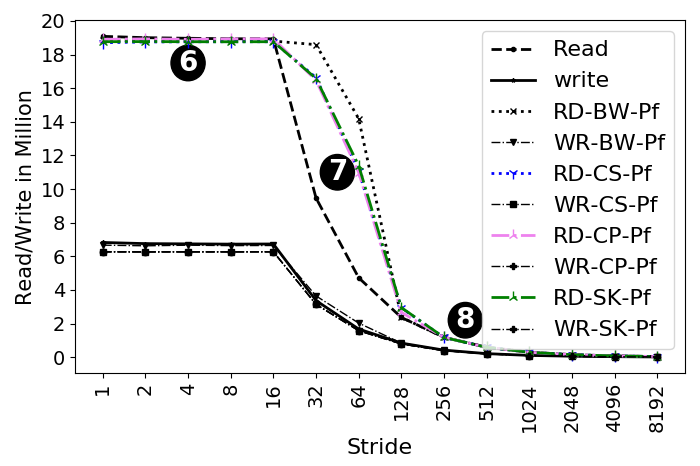
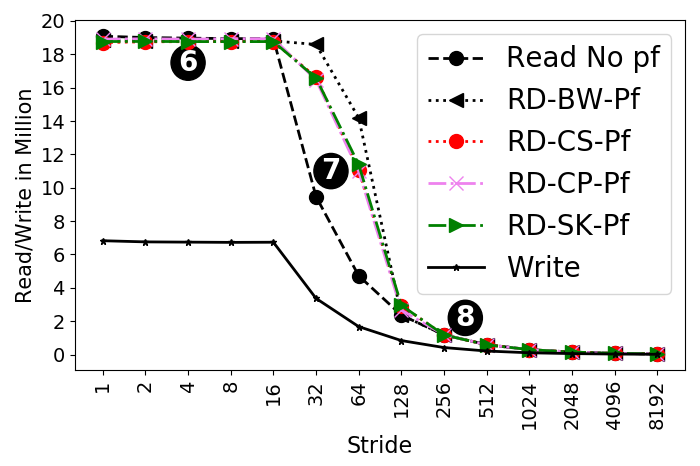
added the graphs

diff --git a/graphs/sc21/new_pref_stride_method_initialization.py b/graphs/sc21/new_pref_stride_method_initialization.py
@@ -1,0 +1,147 @@
+import random
+import matplotlib
+import matplotlib.pyplot as plt
+from matplotlib import style
+
+import numpy as np
+import matplotlib.patches as mpatches
+
+from matplotlib.patches import Ellipse
+
+#plt.rcdefaults()
+fig, ax = plt.subplots()
+
+fig.set_size_inches(7, 5)
+
+#labels = ['Manaul', 'PAPI']
+#traffic = [12.46, 18.75]
+
+#stride = ['stride-1', 'stride-2', 'stride-4', 'stride-8', 'stride-16', 'stride-32', 'stride-64', 'stride-128', 'stride-256', 'stride-512', 'stride-1024', 'stride-2048', 'stride-4096', 'stride-8192']
+stride = ['1', '2', '4', '8', '16', '32', '64', '128', '256', '512', '1024', '2048', '4096', '8192']
+
+read=[19083795,19005683,18970043,18940397,18938589,9468337,4724431,2363247,1182735,594024,296881,149252,75072,37848]
+write=[6824619,6755515,6740634,6725749,6734401,3368188,1676038,839272,420643,212602,106874,58650,31081,15670]
+
+#with prefetch
+read1=[18861923,18813995,18800278,18803630,18803353,18590975,14190254,2364840,1183868,594090,297740,149395,75338,37868]
+write1=[6665144,6625435,6662691,6637524,6645248,3644694,2029784,839811,421381,212587,106996,58520,31292,15906]
+
+readc=[18706394, 18750993, 18760631, 18766661, 18763123, 16630885, 11066714, 2930101, 1172688, 590092, 292798, 147153, 74118, 37785]
+writec=[6258120,6265611,6272502,6270325,6275745,3148710,1580119,789113,391925,199966,98858,50376,25516,14507]
+
+reads=[18765642,18772132,18764571,18759543,18764915,16576687,11395672,2952856,1175004,588251,295965,148305,74884,37756]
+writes=[6271286,6264048,6265378,6268979,6266406,3144219,1573146,789636,392824,196725,99267,50322,25902,13290]
+
+readcp=[18909461,18931537,18907056,18934899,18936431,16468747,10983595,2669717,1180263,590775,295572,148110,74962,38080]
+writecp=[6279061,6259989,6263780,6257942,6266792,3135475,1580211,785815,391856,196223,98589,49926,25361,13198]
+
+
+
+
+read = np.array(read) / 1000000
+write = np.array(write) / 1000000
+write1 = np.array(write1) / 1000000
+read1 = np.array(read1) / 1000000
+writec = np.array(writec) / 1000000
+readc = np.array(readc) / 1000000
+writes = np.array(writes) / 1000000
+reads = np.array(reads) / 1000000
+
+writecp = np.array(writecp) / 1000000
+readcp = np.array(readcp) / 1000000
+
+
+x_pos = np.arange(len(stride))  # the label locations
+
+#ax.barh(x_pos, read, hatch='....', color='white', edgecolor='black')
+#rects1 = plt.bar(x, traffic, .8, hatch='....', color='white', edgecolor='black')
+
+plt.plot(stride, read, marker='o', markersize=10,  color='black', linestyle='dashed', label="Read No pf", linewidth=2)
+plt.plot(stride, read1, marker='<', markersize=10,  color='black', linestyle='dotted', label="RD-BW-Pf", linewidth=2)
+#plt.plot(stride, write1, marker='v', markersize=4,  color='black', linestyle='dashdot', label="WR-BW-Pf", linewidth=1)
+
+plt.plot(stride, readc, marker='o', markersize=10,  color='red', linestyle=':', label="RD-CS-Pf", linewidth=2)
+#plt.plot(stride, writec, marker='s', markersize=4,  color='black', linestyle='dashdot', label="WR-CS-Pf", linewidth=1)
+
+plt.plot(stride, readcp, marker='x', markersize=10,  color='violet', linestyle='-.', label="RD-CP-Pf", linewidth=2)
+#plt.plot(stride, writecp, marker='P', markersize=4,  color='black', linestyle='dashdot', label="WR-CP-Pf", linewidth=1)
+
+
+
+
+
+plt.plot(stride, reads, marker='>', markersize=10,  color='green', linestyle='-.', label="RD-SK-Pf", linewidth=2)
+#plt.plot(stride, writes, marker='P', markersize=4,  color='black', linestyle='dashdot', label="WR-SK-Pf", linewidth=1)
+
+plt.plot(stride, write, marker='*', markersize=5,  color='black', linestyle='solid', label="Write", linewidth=2)
+
+#plt.plot(stride, read, "-b", label="Read")
+#plt.plot(stride, write, "-r", label="Write")
+#plt.legend()
+plt.legend(loc="upper right", handlelength=2, fontsize=20)
+
+#plt.legend(loc="upper right", fontsize=12)
+
+
+ax.set_ylabel('Read/Write in Million', fontsize=15)
+ax.set_xlabel('Stride', fontsize=16)
+
+
+x0, y0 = ax.transAxes.transform((0, 0)) # lower left in pixels
+x1, y1 = ax.transAxes.transform((1, 1)) # upper right in pixes
+dx = x1 - x0
+dy = y1 - y0
+maxd = max(dx, dy)
+width = 1.5 * maxd / dx
+height = 1.5 * maxd / dy
+
+#ax.axis('equal')
+
+#ax.set_aspect('equal')
+
+
+
+
+x=2
+y=17.5
+circle = Ellipse((x, y), width-.7, height, color="black")
+#circle = plt.Circle((x, y), radius=1, color="black")
+ax.add_patch(circle)
+label = ax.annotate("6", xy=(x, y), fontsize=20, weight="bold", ha="center", va="center", color="white")
+
+x=5.35
+y=11
+circle = Ellipse((x, y), width-.7, height, color="black")
+#circle = plt.Circle((x, y), radius=1, color="black")
+ax.add_patch(circle)
+label = ax.annotate("7", xy=(x, y), fontsize=20, weight="bold", ha="center", va="center", color="white")
+
+
+x=8.5
+y=2.2
+circle = Ellipse((x, y), width-.7, height, color="black")
+#circle = plt.Circle((x, y), radius=1, color="black")
+ax.add_patch(circle)
+label = ax.annotate("8", xy=(x, y), fontsize=20, weight="bold", ha="center", va="center", color="white")
+
+
+
+
+
+
+#plt.title('', fontsize=18)
+#ax.set_xticks(x_pos)
+plt.yticks(np.arange(0, max(read)+1, 2), fontsize=14)
+#ax.get_yaxis().get_major_formatter().set_scientific(False)
+
+
+plt.xticks(rotation=90, fontsize=14)
+#ax.set_xticklabels(stride, fontsize=12)
+
+#ax.invert_yaxis()
+plt.tight_layout()
+
+plt.show()
+fig.savefig('stride_method_initialization_pref.png', dpi=100)
+
+# Example data

diff --git a/graphs/sc21/various_data_sizes_cp.py b/graphs/sc21/various_data_sizes_cp.py
@@ -22,7 +22,7 @@ def autolabel(rects, xpos='center'):
 
     for rect in rects:
         height = rect.get_height()
-        ax.text(rect.get_x() + rect.get_width()*offset[xpos], height + 6,
+        ax.text(rect.get_x() + rect.get_width()*offset[xpos], height + 4,
                 '{}'.format(height), ha=ha[xpos], va='bottom', fontsize=11, rotation=90)
 
 
@@ -35,7 +35,7 @@ def average(lst):
 #plt.rcdefaults()
 fig, ax = plt.subplots()
 
-fig.set_size_inches(7, 2.5)
+fig.set_size_inches(7, 3)
 
 
 
@@ -51,16 +51,8 @@ fig.set_size_inches(7, 2.5)
 stride=['Triad_1','Triad_2','Triad_3','Jacobi_1','Jacobi_2','Jacobi_3','Lap.2D_1','Lap.2D_2','Lap.2D_3','XSBen_1','XSBen_2','Vec_R7_1','Vec_R7_2','Vec_R7_3','Vec_R8_1','Vec_R8_2','Vec_R8_3']
 #stride=['Triad_1','Triad_2','Triad_3','Jacobi_1','Jacobi_2','Jacobi_3','Lap.2D_1','Lap.2D_2','Lap.2D_3','XSBen_1','XSBen_2','Vec_R7_1','Vec_R7_2','Vec_R7_3','Vec_R8_1','Vec_R8_2','Vec_R8_3','Lulesh_1','Lulesh_2','Lulesh_3']
 #stride=['Triad_50','Triad_100','Triad_150','jacobi_4096','jacobi_8192','jacobi_16384','laplace_4096','laplace_8000','laplace_10000','xsbench_small','xsbench_big','Vecm_R7_50','Vecm_R7_100','Vecm_R7_200','Vecm_R8_50','Vecm_R8_100','Vecm_R8_200','lulesh_250','lulesh_300','lulesh_400']
-#mapr=[98.92977139,99.16870648,99.61383181,81.5824526,81.93283401,81.43143327,94.72154897,99.41113128,99.844747,61.00901062,91.89561288,92.56801122,92.50984711,92.48666559,98.7364694,99.13273725,98.96556246]
-
-mapr=[98.7,98.3036989,98.29811107,88.8,90.90918746,93.99445903,91.7,95.77061417,96.12857654,52.17573449,94.71034347,91.80427778,94.1,94.9179158,85.5,89.41492684,91.99445903]
-
-#lit=[99.65811513,99.30578589,99.7241934,87.88307244,88.97635499,88.65746754,96.02402148,99.6129656,99.70779706,68.91097887,96.5624612,90.94570885,90.44556598,91.0081077,98.7356895,99.05069811,98.89485005]
-lit=[99.7,99.20946328,99.19228647,90.1,92.43075826,93.87650593,92.8,97.13893568,97.51711807,46.69530258,94.62974313,92.61814058,92.4,90.66792358,85.2,89.36849984,93.87650593]
-
-
-
-
+mapr=[98.92977139,99.16870648,99.61383181,81.5824526,81.93283401,81.43143327,94.72154897,99.41113128,99.844747,61.00901062,91.89561288,92.56801122,92.50984711,92.48666559,98.7364694,99.13273725,98.96556246]
+lit=[99.65811513,99.30578589,99.7241934,87.88307244,88.97635499,88.65746754,96.02402148,99.6129656,99.70779706,68.91097887,96.5624612,90.94570885,90.44556598,91.0081077,98.7356895,99.05069811,98.89485005]
 
 #lit=[73.9970265429505, 74.7593436919083, 75.1830948946589, 74.8519219398648, 75.8097941563951, 76.5623778192054, 75.8026714559401, 75.2564136525971]
 

diff --git a/graphs/sc21/stride_method_proof.py b/graphs/sc21/stride_method_proof.py
@@ -30,13 +30,13 @@ x_pos = np.arange(len(stride))  # the label locations
 #ax.barh(x_pos, read, hatch='....', color='white', edgecolor='black')
 #rects1 = plt.bar(x, traffic, .8, hatch='....', color='white', edgecolor='black')
 
-plt.plot(stride, read, marker='o', markersize=3,  color='black', linestyle='dashed', label="Read", linewidth=2)
-plt.plot(stride, write, marker='*', markersize=3,  color='black', linestyle='solid', label="Write", linewidth=1)
+plt.plot(stride, read, marker='o', markersize=5,  color='black', linestyle='dotted', label="Read", linewidth=2)
+plt.plot(stride, write, marker='x', markersize=8,  color='black', linestyle='solid', label="Write", linewidth=1)
 
 #plt.plot(stride, read, "-b", label="Read")
 #plt.plot(stride, write, "-r", label="Write")
 #plt.legend()
-plt.legend(handlelength=3, fontsize=16)
+plt.legend(handlelength=3, fontsize=20)
 
 #plt.legend(loc="upper right", fontsize=12)
 
@@ -49,19 +49,19 @@ ax.set_xlabel('Stride', fontsize=16)
 
 x=4
 y=14
-circle = plt.Circle((x, y), radius=.7, color="black")
+circle = plt.Circle((x, y), radius=.9, color="black")
 ax.add_patch(circle)
 label = ax.annotate("1", xy=(x, y), fontsize=20, weight="bold", ha="center", va="center", color="white")
 
 x=20
 y=7
-circle = plt.Circle((x, y), radius=.7, color="black")
+circle = plt.Circle((x, y), radius=.9, color="black")
 ax.add_patch(circle)
 label = ax.annotate("3", xy=(x, y), fontsize=20, weight="bold", ha="center", va="center", color="white")
 
 x=10
 y=8
-circle = plt.Circle((x, y), radius=.7, color="black")
+circle = plt.Circle((x, y), radius=.9, color="black")
 ax.add_patch(circle)
 label = ax.annotate("2", xy=(x, y), fontsize=20, weight="bold", ha="center", va="center", color="white")
 

diff --git a/graphs/sc21/intel_traffic.py b/graphs/sc21/intel_traffic.py
@@ -45,10 +45,10 @@ x_pos = np.arange(len(stride))  # the label locations
 #ax.barh(x_pos, read, hatch='....', color='white', edgecolor='black')
 #rects1 = plt.bar(x, traffic, .8, hatch='....', color='white', edgecolor='black')
 
-plt.plot(stride, readn, marker='o', markersize=5,  color='black', linestyle='dashed', label="Read-non-intialized", linewidth=2)
-plt.plot(stride, writen, marker='*', markersize=5,  color='black', linestyle='solid', label="Write-non-initialized", linewidth=1)
-plt.plot(stride, readi, marker='s', markersize=5,  color='blue', linestyle='dotted', label="Read-initialized", linewidth=2)
-plt.plot(stride, writei, marker='<', markersize=5,  color='blue', linestyle='dashdot', label="Write-initialized", linewidth=1)
+plt.plot(stride, readn, marker='o', markersize=10,  color='black', linestyle='dashed', label="Read-non-intialized", linewidth=2)
+plt.plot(stride, writen, marker='*', markersize=10,  color='black', linestyle='solid', label="Write-non-initialized", linewidth=1)
+plt.plot(stride, readi, marker='s', markersize=10,  color='green', linestyle='dotted', label="Read-initialized", linewidth=2)
+plt.plot(stride, writei, marker='<', markersize=10,  color='blue', linestyle='dashdot', label="Write-initialized", linewidth=1)
 
 #plt.plot(stride, read, "-b", label="Read")
 #plt.plot(stride, write, "-r", label="Write")
@@ -78,7 +78,7 @@ height = 1.5 * maxd / dy
 
 
 x=1
-y=11.5
+y=11
 circle = Ellipse((x, y), width-.8, height, color="black")
 #circle = plt.Circle((x, y), radius=1, color="black")
 ax.add_patch(circle)

diff --git a/graphs/sc21/stride_method_initialization.py b/graphs/sc21/stride_method_initialization.py
@@ -36,13 +36,13 @@ x_pos = np.arange(len(stride))  # the label locations
 #ax.barh(x_pos, read, hatch='....', color='white', edgecolor='black')
 #rects1 = plt.bar(x, traffic, .8, hatch='....', color='white', edgecolor='black')
 
-plt.plot(stride, read, marker='o', markersize=5,  color='black', linestyle='dashed', label="Read", linewidth=2)
-plt.plot(stride, write, marker='*', markersize=5,  color='black', linestyle='solid', label="Write", linewidth=1)
+plt.plot(stride, read, marker='o', markersize=10,  color='black', linestyle='dashed', label="Read", linewidth=2)
+plt.plot(stride, write, marker='<', markersize=10,  color='black', linestyle='solid', label="Write", linewidth=1)
 
 #plt.plot(stride, read, "-b", label="Read")
 #plt.plot(stride, write, "-r", label="Write")
 #plt.legend()
-plt.legend(handlelength=3, fontsize=16)
+plt.legend(handlelength=3, fontsize=20)
 
 #plt.legend(loc="upper right", fontsize=12)
 
@@ -65,7 +65,7 @@ height = 1.5 * maxd / dy
 
 
 
-x=4.5
+x=4.6
 y=18.5
 circle = Ellipse((x, y), width-.8, height, color="black")
 #circle = plt.Circle((x, y), radius=1, color="black")
